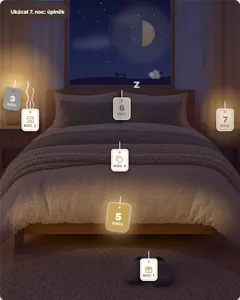
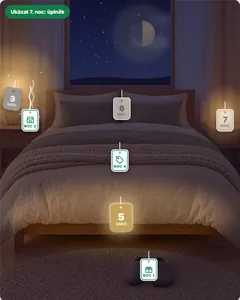
Calm the bedroom window, add MK green
Remove the jumping sheep, fence and floating "Z"; keep stars, clouds,
moon and the occasional shooting star. MK green #0e8348 marks actions,
opened tags and the list bullets, gold stays for today's night.

diff --git a/index.html b/index.html
@@ -347,7 +347,7 @@
   .demo .rk-start { align-self: center; margin: -4px 0 10px; border: 0; background: none; font: inherit; font-size: 12.5px; font-weight: 700; color: #004996; text-decoration: underline; cursor: pointer; }
   @media (prefers-reduced-motion: reduce) { .demo .rk .rk-l.today, .demo .rk .rk-l.drop, .demo .rk .rk-ring, .demo .dil.today, .demo .rk.launch .rk-ship, .demo .rk.launch .rk-flame { animation: none; } .demo .rk.launch .rk-done { animation: none; opacity: 1; } }
   /* téma: 7 nocí pro lepší spánek (fotka z Higgsfieldu; měsíc, ovečky, světla a visačky v kódu) */
-  .demo[data-theme="spani"] { --d-bg: #f5f1ec; --d-ink: #483628; --d-ink-2: #7d6b5c; --d-today: #c3a15a; --d-today-ink: #fff; --d-btn: #c3a15a; --d-btn-ink: #fff; --d-font: 'Inter', 'Inter Fallback', Arial, sans-serif; --d-card: #fff; --d-card-line: #e2dfdd; }
+  .demo[data-theme="spani"] { --d-bg: #f5f1ec; --d-ink: #483628; --d-ink-2: #7d6b5c; --d-today: #c3a15a; --d-today-ink: #fff; --d-btn: #0e8348; --d-btn-ink: #fff; --d-font: 'Inter', 'Inter Fallback', Arial, sans-serif; --d-card: #fff; --d-card-line: #e2dfdd; }
   .demo[data-theme="spani"] .d-title { font-weight: 800; letter-spacing: -0.025em; }
   .demo[data-theme="spani"] .d-btn { border-radius: 100px; }
   .demo .scene.spani { aspect-ratio: 4 / 5; max-width: 480px; background: #483628 url('img/spani.webp') center / cover no-repeat; }
@@ -365,10 +365,6 @@
   @keyframes spCloud { from { transform: translateX(-320px); } to { transform: translateX(860px); } }
   .demo .sp-meteor { opacity: 0; stroke-dasharray: 170; stroke-dashoffset: 170; animation: spMeteor 7s ease-out infinite 2s; }
   @keyframes spMeteor { 0% { opacity: 0; stroke-dashoffset: 170; transform: translate(0,0); } 3% { opacity: 1; } 10% { opacity: 0; stroke-dashoffset: -170; transform: translate(-90px,42px); } 100% { opacity: 0; } }
-  .demo .sp-sheep { animation: spRun 4.6s linear infinite; }
-  .demo .sp-hop { animation: spHop 4.6s linear infinite; }
-  @keyframes spRun { from { transform: translate(470px, 560px); } to { transform: translate(1330px, 560px); } }
-  @keyframes spHop { 0%, 36% { transform: translateY(0); } 50% { transform: translateY(-120px) rotate(-8deg); } 64%, 100% { transform: translateY(0); } }
   .demo .sp-lamp { animation: spBreath 4s ease-in-out infinite; }
   .demo .sp-candle { transform-box: fill-box; transform-origin: 50% 70%; animation: spFlick .16s steps(2) infinite alternate; }
   @keyframes spBreath { 50% { opacity: .65; } }
@@ -377,8 +373,6 @@
   @keyframes spMote { 0%, 100% { opacity: 0; transform: translate(0,0); } 50% { opacity: .9; transform: translate(14px,-40px); } }
   .demo .sp-steam path { opacity: 0; animation: spSteam 3.3s ease-in-out infinite; }
   @keyframes spSteam { 0% { opacity: 0; transform: translateY(24px); } 30% { opacity: .75; } 100% { opacity: 0; transform: translateY(-70px); } }
-  .demo .sp-zzz text { opacity: 0; animation: spZ 3.6s ease-out infinite; }
-  @keyframes spZ { 0% { opacity: 0; transform: translate(0,0); } 25% { opacity: .9; } 100% { opacity: 0; transform: translate(40px,-150px); } }
   .demo .sp-done { opacity: 0; transition: opacity 1.2s 1s ease; }
   .demo .scene.spani.finale .sp-done { opacity: 1; }
   .demo .scene.spani.finale .sp-lamp, .demo .scene.spani.finale .sp-candle, .demo .scene.spani.finale .sp-steam, .demo .scene.spani.finale .sp-mote { opacity: 0; animation: none; transition: opacity 1.2s; }
@@ -390,7 +384,10 @@
   .demo .scene.spani .win .b::before { content: ""; position: absolute; top: 5px; left: 50%; width: 6px; height: 6px; margin-left: -3px; border-radius: 50%; background: rgba(72,54,40,.35); }
   .demo .scene.spani .win .b::after { content: ""; position: absolute; bottom: 100%; left: 50%; width: 2px; height: 18px; margin-left: -1px; background: rgba(255,255,255,.85); }
   .demo .scene.spani .win .b small { font-size: 8.5px; font-weight: 800; letter-spacing: .08em; text-transform: uppercase; opacity: .75; }
-  .demo .scene.spani .win .b svg { position: static; width: 20px; height: 20px; transform: none; color: #c3a15a; }
+  .demo .scene.spani .win .b svg { position: static; width: 20px; height: 20px; transform: none; color: #0e8348; }
+  .demo .scene.spani .win.open .b { box-shadow: 0 6px 16px rgba(0,0,0,.4), inset 0 0 0 2px #fff, inset 0 0 0 3.5px #0e8348; }
+  .demo .scene.spani .win.open .b small { color: #0e8348; opacity: 1; }
+  .demo[data-theme="spani"] .d-umi li::before { background: #0e8348; }
   .demo .scene.spani .win.open .b { display: flex; }
   .demo .scene.spani .win.locked .b { background: rgba(255,255,255,.72); color: #7d6b5c; }
   .demo .scene.spani .win.missed .b { background: #9a9590; color: #ece8e2; rotate: 9deg; box-shadow: 0 4px 10px rgba(0,0,0,.35); }
@@ -403,7 +400,8 @@
   .demo .scene.spani .win.just { animation: spOn 1.1s ease-out both; }
   @keyframes spOn { 0% { box-shadow: 0 0 0 0 rgba(255,214,150,.95), inset 0 0 0 999px rgba(255,214,150,.55); } 100% { box-shadow: 0 0 80px 40px rgba(255,214,150,0), inset 0 0 0 999px rgba(255,214,150,0); } }
   .demo .d-finale { position: absolute; left: 12px; top: 12px; z-index: 4; border: 0; border-radius: 100px; padding: 7px 14px; background: rgba(72,54,40,.82); color: #fff; font: inherit; font-size: 12.5px; font-weight: 700; cursor: pointer; -webkit-backdrop-filter: blur(4px); backdrop-filter: blur(4px); }
-  @media (prefers-reduced-motion: reduce) { .demo .sp-star, .demo .sp-halo, .demo .sp-cloud, .demo .sp-meteor, .demo .sp-sheep, .demo .sp-hop, .demo .sp-lamp, .demo .sp-candle, .demo .sp-mote, .demo .sp-steam path, .demo .sp-zzz text, .demo .sp-dim, .demo .scene.spani .win.today .b, .demo .scene.spani .win.just, .demo .scene.spani .win.just .b { animation: none; } .demo .sp-steam path, .demo .sp-zzz text { opacity: .5; } .demo .sp-sheep { transform: translate(760px, 560px); } }
+  .demo[data-theme="spani"] .d-finale { background: rgba(14,131,72,.92); }
+  @media (prefers-reduced-motion: reduce) { .demo .sp-star, .demo .sp-halo, .demo .sp-cloud, .demo .sp-meteor, .demo .sp-lamp, .demo .sp-candle, .demo .sp-mote, .demo .sp-steam path, .demo .sp-dim, .demo .scene.spani .win.today .b, .demo .scene.spani .win.just, .demo .scene.spani .win.just .b { animation: none; } .demo .sp-steam path { opacity: .5; } }
 
   /* téma: Cestovní pas (stůl z Higgsfieldu, pas a razítka v kódu) */
   .demo[data-theme="pas"] { --d-bg: #f6f4f4; --d-ink: #242527; --d-ink-2: #75727e; --d-today: #f1c86f; --d-today-ink: #242527; --d-btn: #e30613; --d-btn-ink: #fff; --d-font: 'Inter', 'Inter Fallback', Arial, sans-serif; --d-card: #fff; --d-card-line: #e4e1e1; }
@@ -1737,15 +1735,13 @@
     s += '<g class="sp-cloud" fill="#c9cfe8" opacity=".55" filter="url(#sp-blur)"><ellipse cx="560" cy="330" rx="150" ry="34"/><ellipse cx="620" cy="304" rx="90" ry="34"/></g>';
     s += '<g class="sp-cloud sp-cloud2" fill="#c9cfe8" opacity=".4" filter="url(#sp-blur)"><ellipse cx="560" cy="150" rx="120" ry="26"/><ellipse cx="610" cy="130" rx="70" ry="26"/></g>';
     s += '<path class="sp-meteor" d="M760 80l-150 70" stroke="#fff" stroke-width="5" stroke-linecap="round"/>';
-    s += '<g fill="#0e1430" opacity=".9"><path d="M520 634V598c120-26 260-30 380-18s240 8 372-14v68z"/><path d="M872 600v-58M928 600v-58M862 556h76M862 580h76" stroke="#0e1430" stroke-width="10" fill="none" stroke-linecap="round"/></g>';
-    s += '<g class="sp-sheep"><g class="sp-hop"><g fill="#fff"><circle cx="0" cy="0" r="24"/><circle cx="26" cy="-6" r="22"/><circle cx="-24" cy="-4" r="20"/><circle cx="6" cy="-20" r="20"/><circle cx="-8" cy="12" r="18"/><circle cx="22" cy="12" r="18"/></g><ellipse cx="48" cy="-14" rx="15" ry="12" fill="#2a2433"/><path d="M-18 24v22M-4 26v22M14 26v22M28 22v22" stroke="#2a2433" stroke-width="6" stroke-linecap="round"/></g></g>';
+    s += '<g fill="#0e1430" opacity=".9"><path d="M520 634V598c120-26 260-30 380-18s240 8 372-14v68z"/></g>';
     s += '</g>';
     if (spot) s += '<rect class="sp-dim" width="1792" height="2240" fill="#120c22" mask="url(#sp-m)"/>';
     s += '<ellipse class="sp-lamp" cx="110" cy="640" rx="380" ry="330" fill="url(#sp-glow)"/>';
     s += '<ellipse class="sp-candle" cx="1676" cy="855" rx="200" ry="230" fill="url(#sp-glow)"/>';
     for (i = 0; i < 9; i++) s += '<circle class="sp-mote" cx="' + (40 + r() * 300).toFixed(0) + '" cy="' + (560 + r() * 360).toFixed(0) + '" r="' + (3 + r() * 4).toFixed(1) + '" fill="#ffe3b0" style="animation-delay:' + (r() * 6).toFixed(2) + 's"/>';
     s += '<g class="sp-steam" fill="none" stroke="#fff" stroke-width="10" stroke-linecap="round"><path d="M205 830c-22-40 22-60 0-100s20-60 0-100"/><path d="M245 840c-22-40 22-60 0-100s20-60 0-100" style="animation-delay:1.1s"/><path d="M225 835c-22-40 22-60 0-100s20-60 0-100" style="animation-delay:2.2s"/></g>';
-    s += '<g class="sp-zzz" font-family="Inter, Arial, sans-serif" font-weight="900" fill="#fff"><text x="980" y="720" font-size="64">Z</text><text x="1040" y="700" font-size="48" style="animation-delay:1.2s">z</text><text x="1090" y="690" font-size="38" style="animation-delay:2.4s">z</text></g>';
     s += '<g class="sp-done" font-family="Inter, Arial, sans-serif" text-anchor="middle"><text x="896" y="470" font-size="104" font-weight="800" fill="#fdf3d0">Dobrou noc.</text><text x="896" y="548" font-size="40" font-weight="600" fill="#f1e3c0">Úplněk a&#160;nejlepší dárek sezóny.</text></g>';
     return s + '</svg>';
   }
